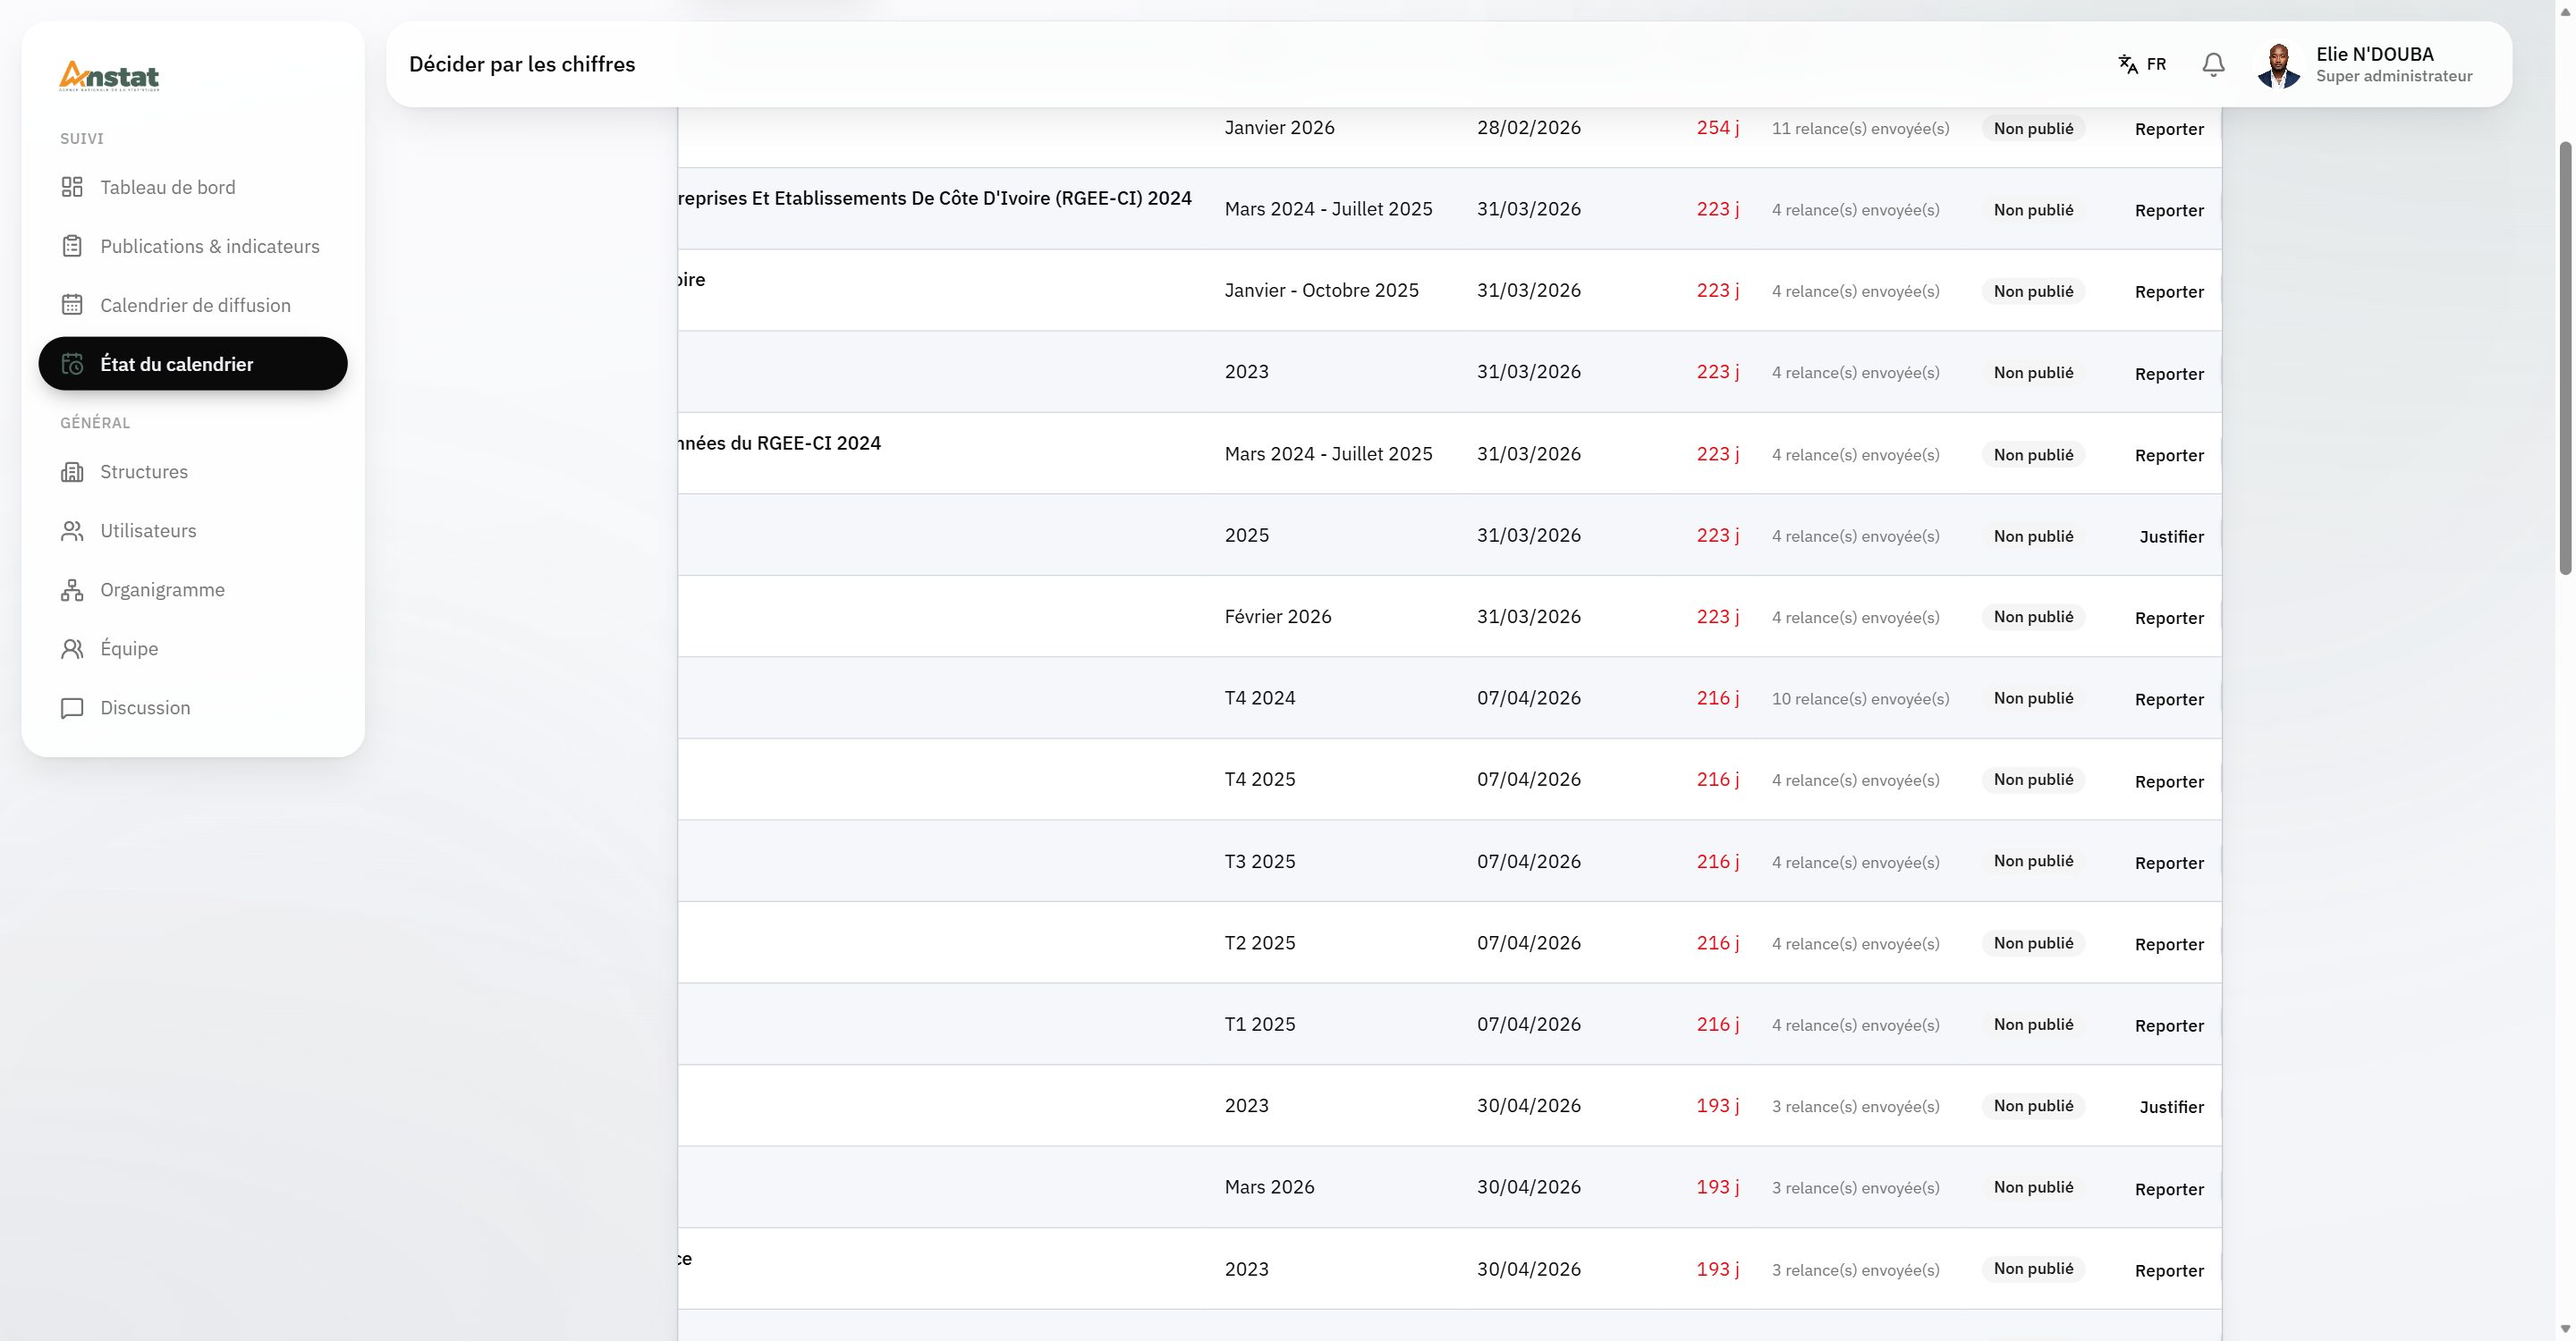
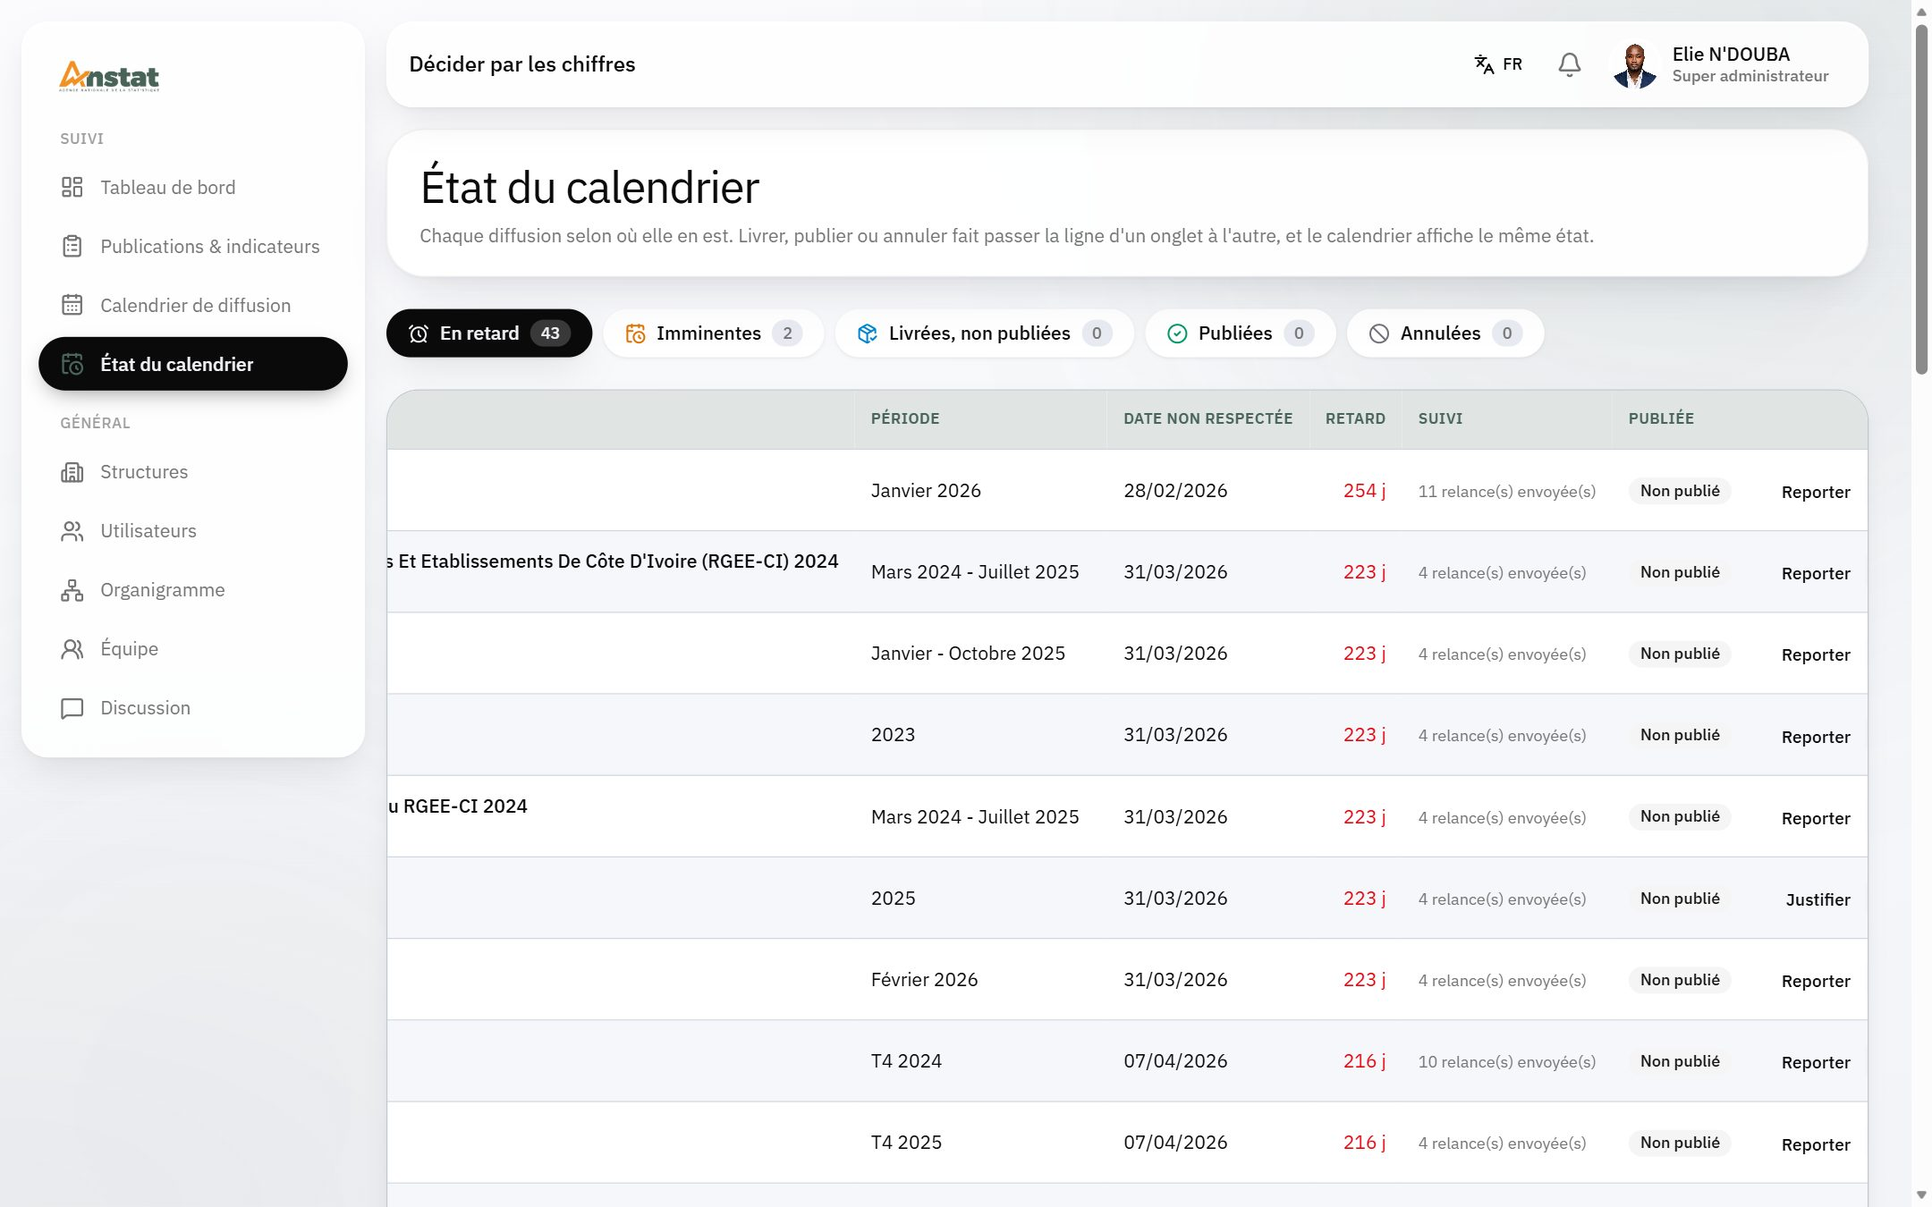
docs(documentation): capture des retards lisible

diff --git a/documentation/contenu.ts b/documentation/contenu.ts
@@ -35,8 +35,8 @@ export type Capture = {
   defilerVers?: Cible;
   /** Taille de fenêtre particulière (tableau large, par exemple). */
   fenetre?: { width: number; height: number };
-  /** Réduction de l'affichage, pour faire tenir un tableau large. */
-  zoom?: number;
+  /** Défilement horizontal seulement (tableau large), sans bouger la page. */
+  horizontal?: boolean;
   /** Photographier sans session (écran de connexion). */
   sansSession?: boolean;
 };
@@ -545,11 +545,11 @@ export const DOCUMENTATION: Partie[] = [
               fichier: 'retards.jpg',
               chemin: '/etat-calendrier?onglet=retard',
               legende: 'Les publications en retard',
-              fenetre: { width: 1920, height: 1000 },
               defilerVers: { role: 'button', nom: '^(Justifier|Reporter)$' },
+              horizontal: true,
             },
             etapes: [
-              { texte: 'Chaque ligne donne le produit, la période, la **date non respectée**, le nombre de jours de retard et l’état de publication.' },
+              { texte: 'Chaque ligne donne le produit, la période, la **date non respectée**, le nombre de jours de **retard**, le **suivi** (relances déjà envoyées) et l’état de publication. Le tableau défile horizontalement.', cible: { texte: 'Date non respectée', rang: 0 } },
               { texte: '**Justifier** (ou **Reporter** si une justification existe déjà) : état d’avancement, justification et nouvelle date prévisionnelle.', cible: { role: 'button', nom: '^(Justifier|Reporter)$' } },
               { texte: '**Point focal** : **Déposer** ouvre directement la fenêtre de dépôt du livrable.' },
               { texte: '**Encadrement** : contactez le point focal (e-mail ou téléphone), ou envoyez-lui une **alerte** écrite avec la **cloche** (e-mail et notification).', cible: { css: '[aria-label^="Envoyer une alerte"]' } },
